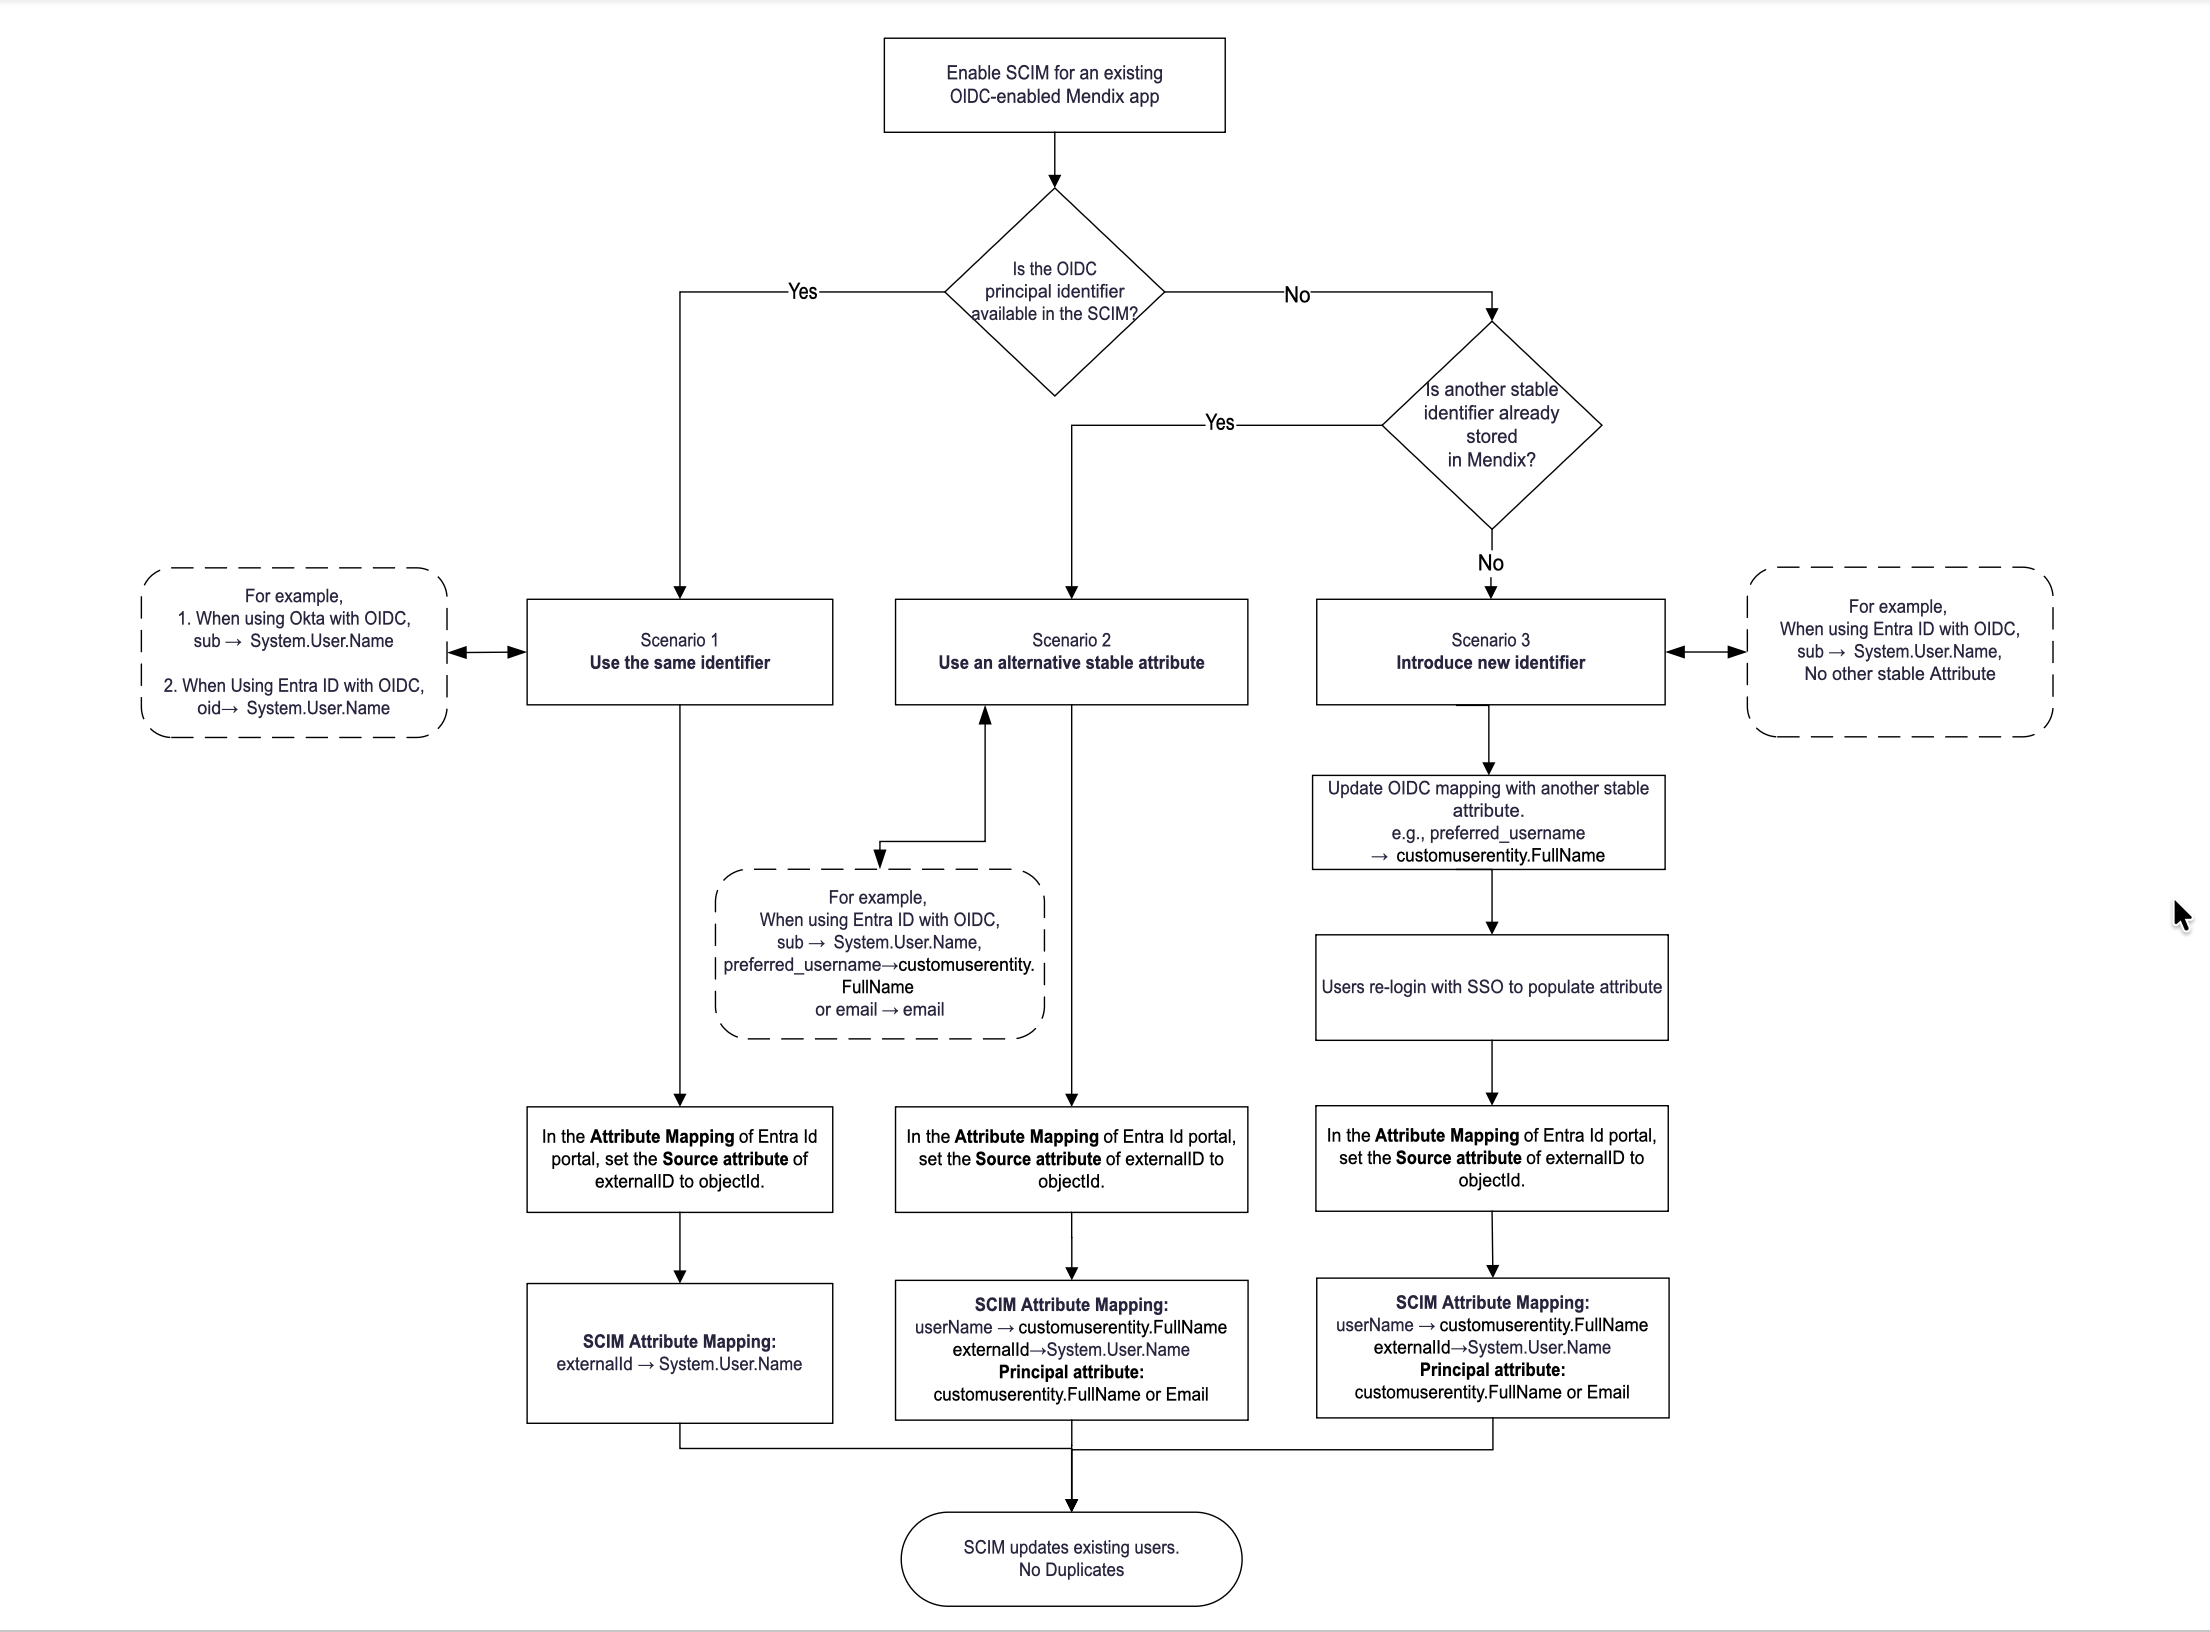
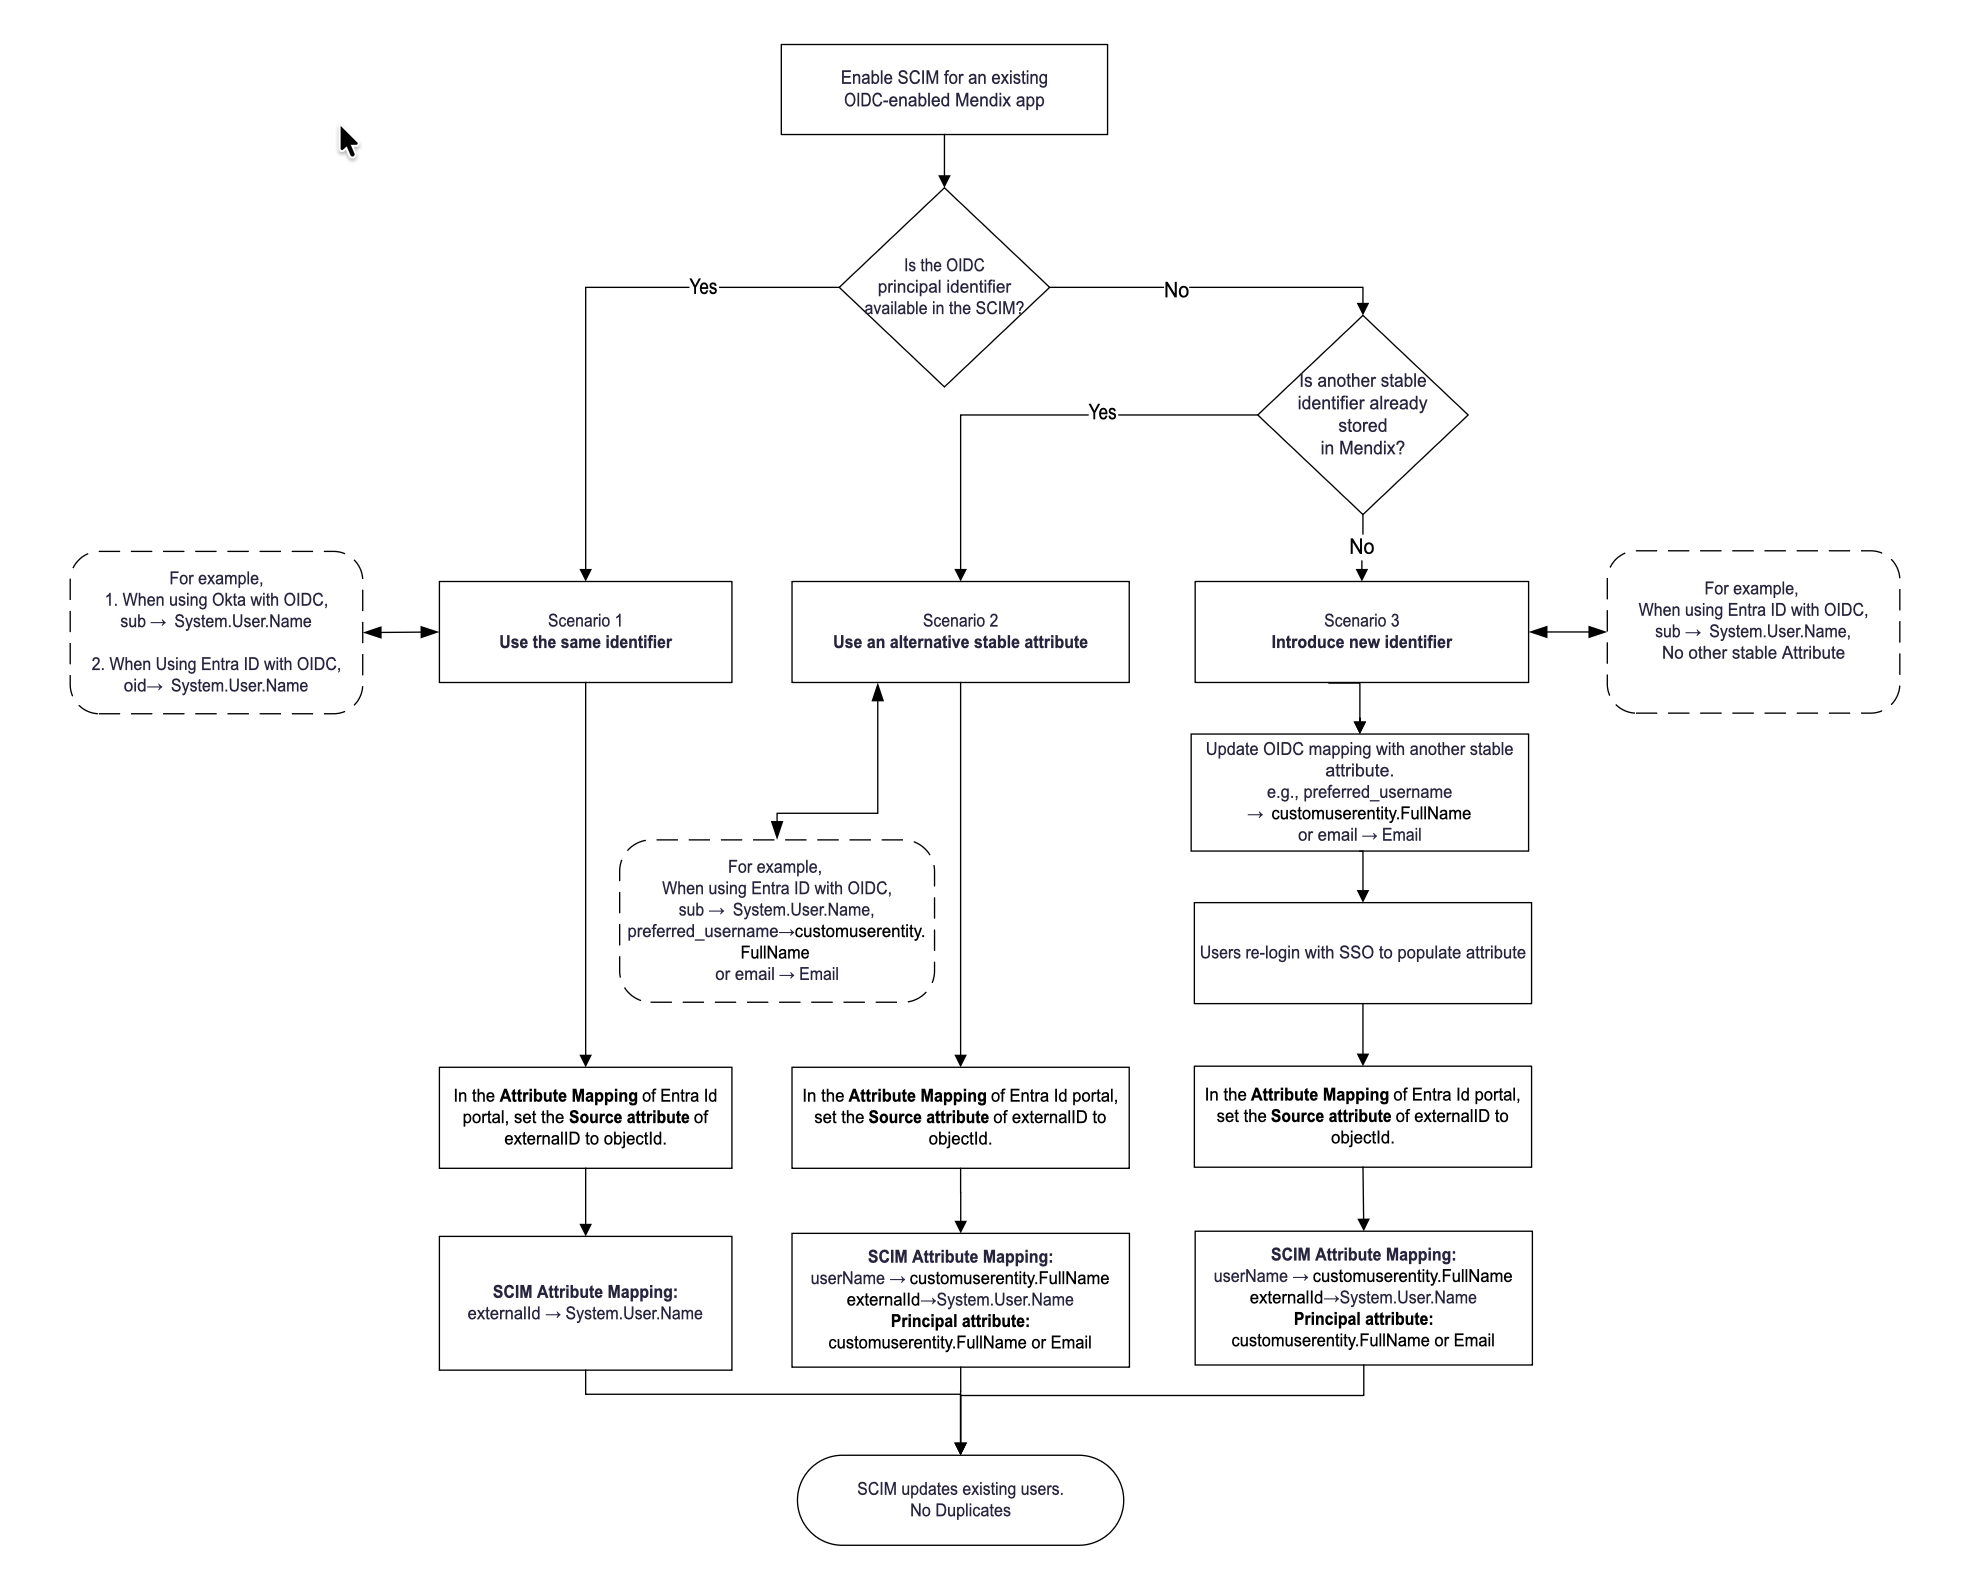
Additional changes

diff --git a/content/en/docs/marketplace/platform-supported-content/modules/scim/using-scim-with-sso-module.md b/content/en/docs/marketplace/platform-supported-content/modules/scim/using-scim-with-sso-module.md
@@ -16,11 +16,15 @@ The following decision flow diagram shows how to choose the correct identifier-m
 
 ## Scenarios
 
-### Scenario 1: Aligning OIDC and SCIM Identifiers To Update Existing Users
+### Scenario 1: Mapping the Unique IdP Identifier for SSO and SCIM
 
-This scenario applies when users have already authenticated to the Mendix application using OIDC and the customer subsequently enables SCIM for user provisioning. When a user first logs in via OIDC, the Identity Provider (IdP) provides a unique identifier, such as the `sub` claim (for example, `00u12abcD3XYZpqRs5d6`).
+This scenario applies when users have already authenticated to the Mendix application using SSO, for example, OIDC and the customer subsequently enables SCIM for user provisioning. When a user first logs in via OIDC, the Identity Provider (IdP) provides a unique identifier, such as the `sub` claim (for example, `00u12abcD3XYZpqRs5d6`).
 
 The typical example of this scenario includes Okta as an IdP and using `sub` as a unique identifier. In the OIDC **Attribute Mapping** configuration, the unique IdP claim `sub` is stored in the `System.User.Name` attribute of the Mendix user entity, and the `Name` attribute is configured as the OIDC principal attribute. This establishes the `sub` value as the authoritative identifier for the user in Mendix.
+
+{{% alert color="info" %}}
+This scenario also applies if you are using Entra ID as IdP. The unique IdP claim `oid` is stored in the `System.User.Name` attribute of the Mendix user entity, the `Name` attribute is configured as the OIDC principal attribute. By mapping the SCIM `externalId` to the `System.User.Name` attribute and configuring `Name` as the SCIM principal attribute enable Mendix to correctly correlate SCIM provisioning.
+{{% /alert %}}
 
 To ensure that SCIM provisions and updates the same user rather than creating a duplicate record, the SCIM configuration must reference the same identifier. In IdPs such as Okta, the SCIM `externalId` attribute contains the same value as the OIDC `sub` claim.
 
@@ -35,11 +39,9 @@ By mapping the SCIM `externalId` to the `System.User.Name` attribute and configu
 
 {{< figure src="/attachments/appstore/platform-supported-content/modules/scim/using-with-oidc/scim-principal-attribute.png" >}}
 
-If you are using Entra ID as IdP, the unique IdP claim `oid` is stored in the `System.User.Name` attribute of the Mendix user entity, the `Name` attribute is configured as the OIDC principal attribute. By mapping the SCIM `externalId` to the `System.User.Name` attribute and configuring `Name` as the SCIM principal attribute enable Mendix to correctly correlate SCIM provisioning.
+### Scenario 2: No Unique Identifier — Using an Alternative Stable Attribute {#alternative-stable-attribute}
 
-### Scenario 2: OIDC Unique Identifier Not Supported by the SCIM — Using an Alternative Stable Attribute {#alternative-stable-attribute}
-
-This scenario applies when a Mendix application has already provisioned users through the OIDC SSO module, but the principal IdP attribute (for example, sub) in the OIDC used for authentication is not available in the SCIM provisioning payload.
+This scenario applies when a Mendix application has already provisioned users through the OIDC SSO module, but the principal IdP attribute (for example, `sub`) in the OIDC used for authentication is not available in the SCIM provisioning payload.
 
 A typical example of this scenario is Entra ID as IdP,  where the OIDC `sub` claim is used as the primary unique identifier, and a second, stable identifier is mapped as a secondary identifier through OIDC attribute mapping. If the stable secondary identifier is not already mapped, refer to the [Scenario 3: No Existing Shared Identifier — Introducing a New Stable Attribute](#new-stable-attribute) section below.
 
@@ -102,7 +104,7 @@ Map a stable, unique claim from the IdP, for example, map `preferred_username`  
 Require existing users to log in via OIDC after the mapping is applied, so the new attribute is stored in Mendix.
 
 3. Align SCIM configuration:
-Configure SCIM to use the newly populated attribute for user matching and follow the same SCIM principal attribute and mapping approach described in the [Scenario 2: OIDC Unique Identifier Not Supported by the SCIM — Using an Alternative Stable Attribute](#alternative-stable-attribute) section above.
+Configure SCIM to use the newly populated attribute for user matching and follow the same SCIM principal attribute and mapping approach described in the [Scenario 2: No Unique Identifier — Using an Alternative Stable Attribute ](#alternative-stable-attribute) section above.
 
 By introducing a shared, stable identifier and ensuring it is populated for all existing users, Mendix can reliably correlate SCIM provisioning requests with OIDC-authenticated users and update existing records instead of creating duplicates.
 
